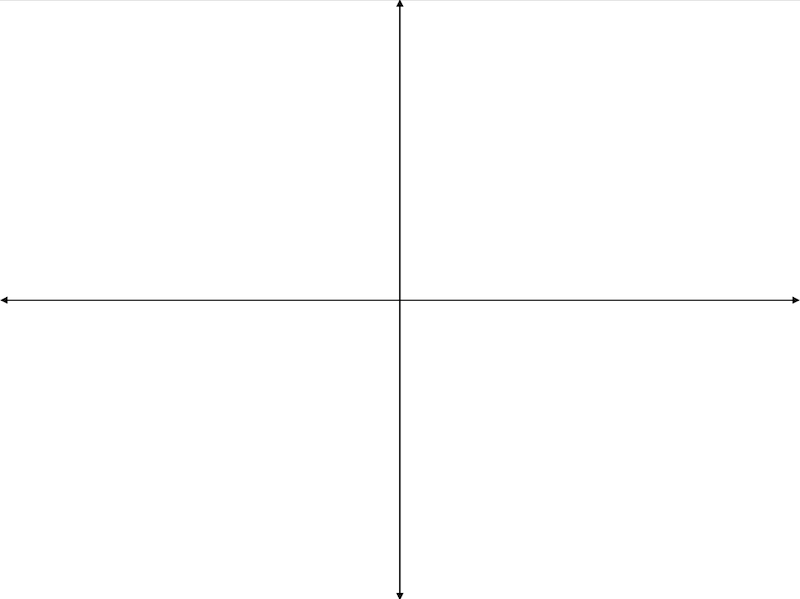
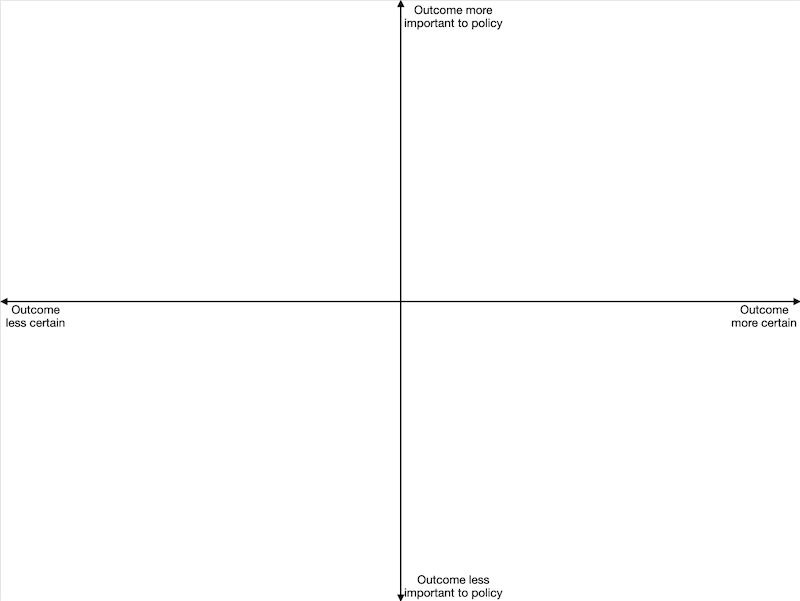
Fixes for the demo

Changed region(s): [[0.0, 0.4808, 1.0, 0.571], [0.4688, 0.9316, 0.625, 1.0], [0.5, 0.0, 0.625, 0.0601]]

diff --git a/src/components/DriverMapping/DriverMapping.js b/src/components/DriverMapping/DriverMapping.js
@@ -1,29 +1,185 @@
 
 import { render } from 'react-dom'
-import { Container } from './Container.js'
 import { DndProvider } from 'react-dnd'
 import { HTML5Backend } from 'react-dnd-html5-backend'
 import { ScanModal } from '../Modal/ScanModal.js'
 
+import './driver-mapping.css';
+
 import { BoxRow } from '../BoxRow/BoxRow.js'
+import parse from 'html-react-parser';
 
 import LogoDriverMapping from '../../assets/images/driver-mapping-logo.png'
+import update from 'immutability-helper'
+import { useCallback, useState } from 'react'
+import { useDrop } from 'react-dnd'
+import backgroundImage from '../../assets/images/driver-mapping-axes.png'
+import { useDrag } from 'react-dnd'
 
-const DriverMapping = ({ scans, handleClick, modalShow, modalHandleClose, modalThisScan }) => {
+const style = {
+    position: 'absolute',
+    borderTop: '10px solid #E1E1E1',
+    backgroundColor: '#A0001C',
+    color: '#E1E1E1',
+    padding: '0.5rem 1rem',
+    cursor: 'move',
+    display: '-webkit-box'
+}
+
+const Box = ({ id, left, top, hideSourceOnDrag, children }) => {
+    const [{ isDragging }, drag] = useDrag(
+        () => ({
+            type: ItemTypes.BOX,
+            item: { id, left, top },
+            collect: (monitor) => ({
+                isDragging: monitor.isDragging(),
+            }),
+        }),
+        [id, left, top],
+    )
+    if (isDragging && hideSourceOnDrag) {
+        return <div ref={drag} />
+    }
+
     return (
+        <div
+            className="box text-center"
+            id={`scan-${id}`}
+            ref={drag}
+            style={{ ...style, left, top, width: '100px', height: '90px' }}
+            data-testid="box"
+        >
+            <span className="dnd-box">{children}</span>
+        </div>
+    )
+}
 
+const styles = {
+    width: 800,
+    height: 599,
+    border: '1px solid black',
+    position: 'relative',
+    backgroundImage: `url(${backgroundImage})`,
+}
+
+const ItemTypes = {
+    BOX: 'box',
+}
+
+function buildStartingBoxes(scans, coords) {
+    var retval = [];
+    for (let i in scans) {
+        let scan = scans[i];
+        if (coords[i] === undefined) {
+            coords.push({ left: 400, top: 300 });
+        }
+        retval.push({
+            id: scan.id,
+            left: coords[i]["left"],
+            top: coords[i]["top"],
+            title: scan.title
+        })
+    }
+
+    return retval;
+}
+
+const DriverMapping = ({ scans, handleClick, modalShow, modalHandleClose, modalThisScan, passedCoords }) => {
+    const [coords, setCoords] = useState([]);
+    const [formattedCoords, setFormattedCoords] = useState("");
+
+    const Container = ({ hideSourceOnDrag, scans }) => {
+        var startingBoxes = buildStartingBoxes(scans, coords);
+        const [boxes, setBoxes] = useState(startingBoxes)
+        const moveBox = useCallback(
+            (id, left, top) => {
+                setBoxes(
+                    update(boxes, {
+                        [id]: {
+                            $merge: { left, top },
+                        },
+                    }),
+                );
+            },
+            [boxes, setBoxes],
+        )
+        const [, drop] = useDrop(
+            () => ({
+                accept: ItemTypes.BOX,
+                drop(item, monitor) {
+                    const delta = monitor.getDifferenceFromInitialOffset()
+                    let left = Math.round(item.left + delta.x)
+                    let top = Math.round(item.top + delta.y)
+                    if (left < 0) {
+                        left = 0;
+                    } else if (left > 700) {
+                        left = 700;
+                    }
+
+                    if (top < 0) {
+                        top = 0;
+                    } else if (top > 510) {
+                        top = 510;
+                    }
+                    moveBox(item.id, left, top);
+                    updateBoxCoords(item.id, left, top);
+                    return undefined
+                },
+            }),
+            [moveBox],
+        )
+        return (
+            <div ref={drop} style={styles} className="driver-mapping-area">
+                {Object.keys(boxes).map((key) => {
+                    const { left, top, title } = boxes[key]
+                    return (
+                        <Box
+                            key={key}
+                            id={key}
+                            left={left}
+                            top={top}
+                            hideSourceOnDrag={hideSourceOnDrag}
+                        >
+                            {title}
+                        </Box>
+                    )
+                })}
+            </div>
+        )
+    }
+
+    const updateBoxCoords = (id, left, top) => {
+        coords[id] = { left, top };
+        setCoords(coords);
+        let newFormattedCoords = "";
+        for (let i in scans) {
+            console.log(i);
+            console.log(coords[i])
+            let coord = coords[i];
+            console.log(scans[i]["title"]);
+            let scanTitle = scans[i]["title"];
+            let scanHorizontal = Math.round((coord["left"] + 50) / 75);
+            let scanVertical = Math.round((coord["top"] + 45) / 55);
+            console.log(`${scanTitle}: ${scanHorizontal}, ${scanVertical}<br />`);
+            newFormattedCoords += `${scanTitle}: Certainty of outcome: ${scanHorizontal}, importance of outcome to policy ${11 - scanVertical}<br />`;
+        };
+        setFormattedCoords(newFormattedCoords);
+    }
+
+    return (
         <div className="container m" >
             <div className="row">
                 <div className="col text-center h2">
                     <img src={LogoDriverMapping} />
-                    <span>Horizon Scanning</span>
+                    <span>Driver Mapping</span>
                 </div>
             </div>
             <div className="row">
                 <div className="col col-9">
                     <DndProvider backend={HTML5Backend}>
-                        <Container hideSourceOnDrag={false} scans={scans} />
+                        <Container hideSourceOnDrag={false} scans={scans} passedCoords={coords} />
                     </DndProvider>
+                    {parse(formattedCoords)}
                 </div>
                 <div className="col col-3">
                     <ScanModal
@@ -37,7 +193,6 @@ const DriverMapping = ({ scans, handleClick, modalShow, modalHandleClose, modalT
                         onClick={handleClick}
                     />
                 </div>
-
             </div>
         </div >
     )

diff --git a/src/components/DriverMapping/Container.js b/src/components/DriverMapping/Container.js
@@ -6,10 +6,11 @@ import { ItemTypes } from './ItemTypes.js'
 import backgroundImage from '../../assets/images/driver-mapping-axes.png'
 const styles = {
     width: 800,
-    height: 599,
+    height: 600,
     border: '1px solid black',
     position: 'relative',
     backgroundImage: `url(${backgroundImage})`,
+    backgroundSize: 'cover',
 }
 
 function buildStartingBoxes(scans) {
@@ -38,7 +39,8 @@ export const Container = ({ hideSourceOnDrag, scans }) => {
                         $merge: { left, top },
                     },
                 }),
-            )
+            );
+            console.log(left + " " + top);
         },
         [boxes, setBoxes],
     )

diff --git a/src/components/DriverMapping/Box.js b/src/components/DriverMapping/Box.js
@@ -30,13 +30,12 @@ export const Box = ({ id, left, top, hideSourceOnDrag, children }) => {
     return (
         <div
             className="box text-center"
+            id={`scan-${id}`}
             ref={drag}
             style={{ ...style, left, top, width: '100px', height: '90px' }}
             data-testid="box"
         >
             {children}
         </div>
-
-
     )
 }

diff --git a/src/components/BoxRow/BoxRow.css b/src/components/BoxRow/BoxRow.css
@@ -20,4 +20,9 @@
     height: 50px !important;
     text-transform: uppercase;
     font-weight: bold;
+    display: -webkit-box;
+    -webkit-line-clamp: 2;
+    overflow: hidden;
+    -webkit-box-orient: vertical;
+    text-overflow: ellipsis;
 }

diff --git a/src/components/DriverMapping/driver-mapping.css b/src/components/DriverMapping/driver-mapping.css
@@ -1,0 +1,9 @@
+.dnd-box {
+    display: -webkit-box;
+    -webkit-line-clamp: 3;
+    width: 80px;
+    overflow: hidden;
+    -webkit-box-orient: vertical;
+    text-overflow: ellipsis;
+    line-height: 1.4;
+}
